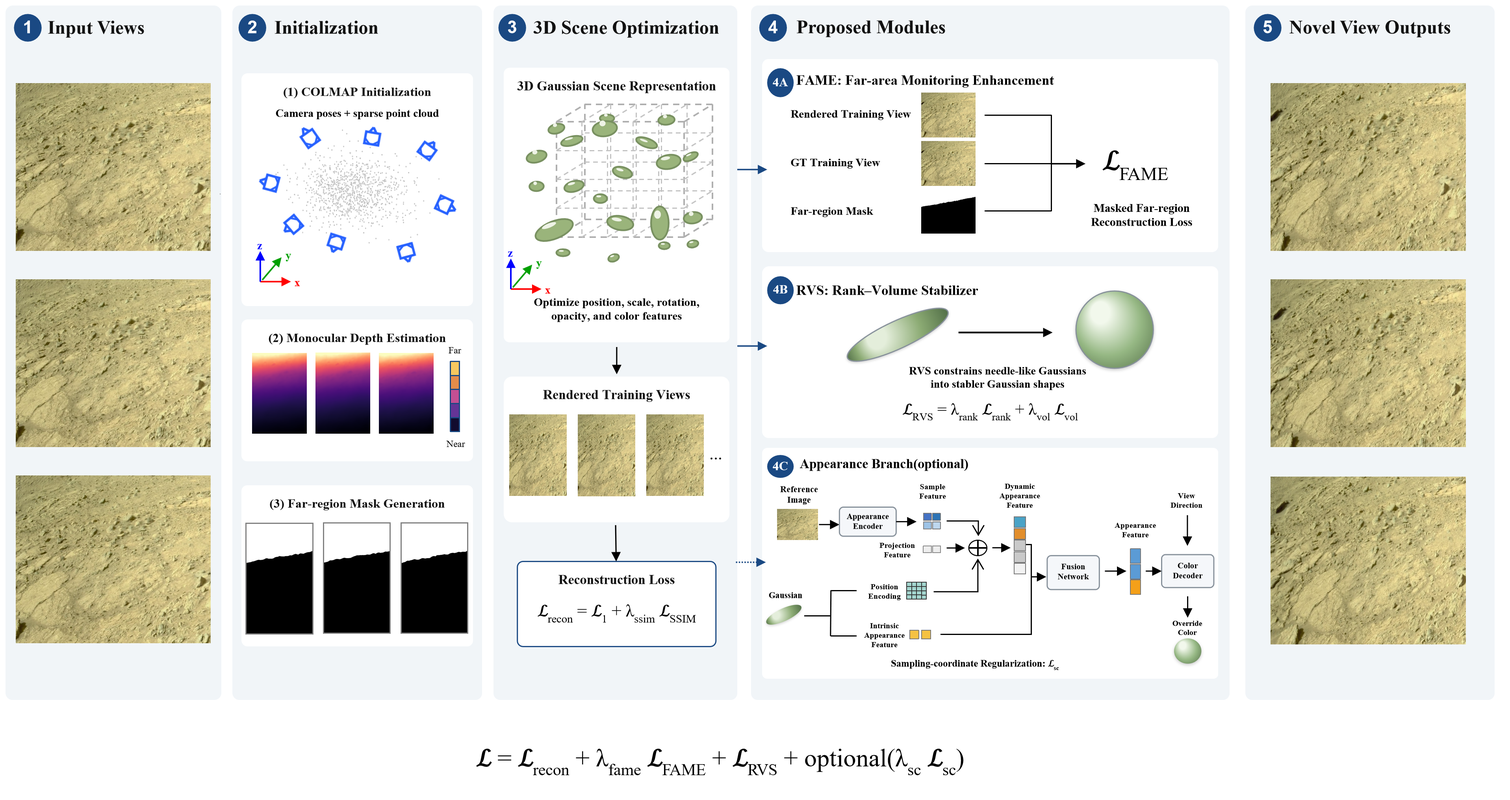
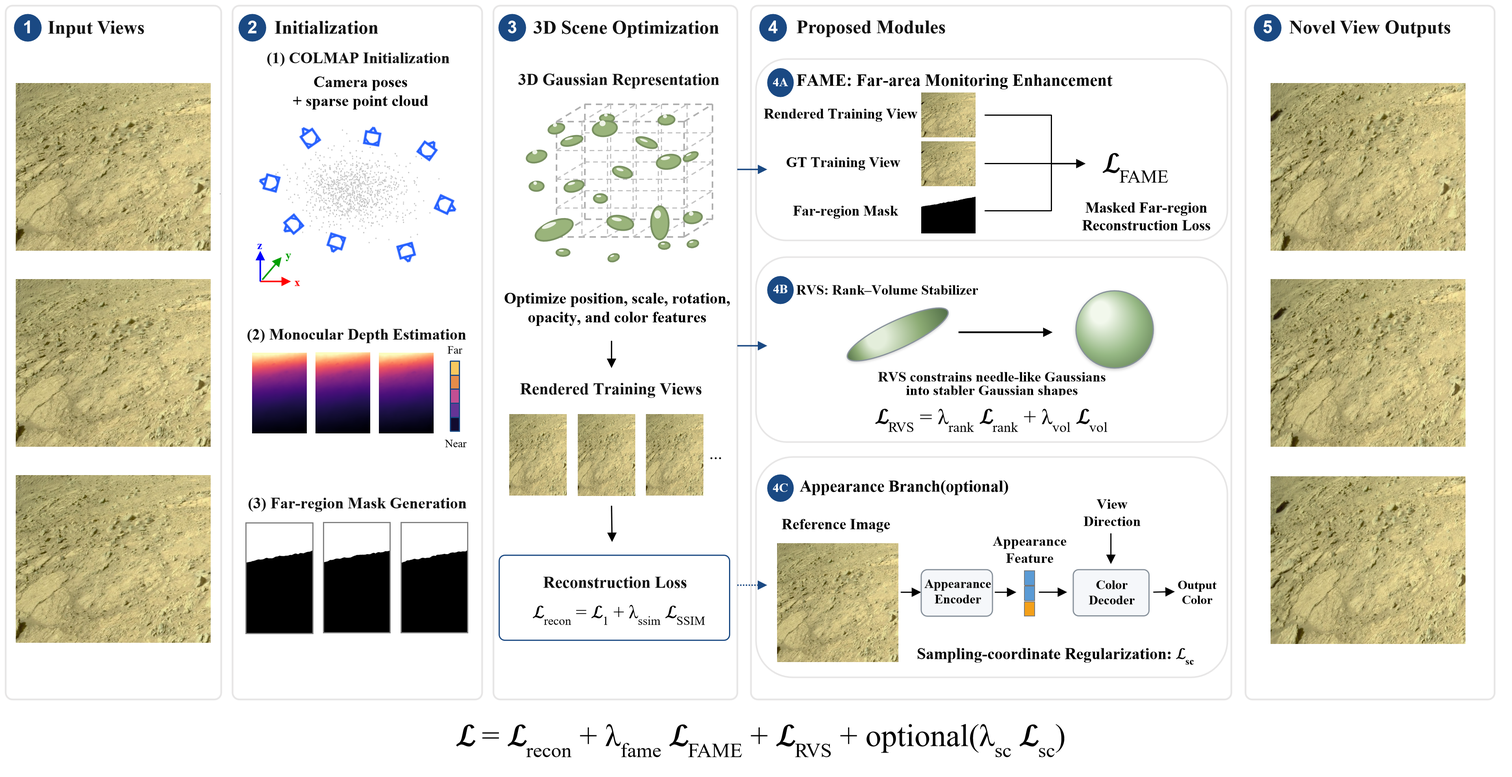
34章合并前

diff --git a/content/thesis/undergraduate/chapter2.tex b/content/thesis/undergraduate/chapter2.tex
@@ -3,12 +3,12 @@
 \chapter{相关理论与关键技术基础}
 \chaptermark{相关理论与关键技术基础}
 \section{三维重建与新视角合成基础}
-三维重建的目标是根据二维图像恢复场景中的几何结构、相机位置和外观信息。对于静态深空地表场景，如果能够从不同位置采集多张图像，则不同图像之间存在由相机投影关系决定的几何约束。通过建立图像像素、相机参数和三维点之间的对应关系，可以估计相机运动并恢复地表结构。三维重建结果可以表现为点云、网格、体素、隐式场或显式高斯等多种形式。
+三维重建的目标是根据二维图像恢复场景中的几何结构、相机位置和外观信息。对于静态深空场景，如果能够从不同位置采集多张图像，则不同图像之间存在由相机投影关系决定的几何约束。通过建立图像像素、相机参数和三维点之间的对应关系，可以估计相机运动并恢复场景结构。三维重建结果可以表现为点云、网格、体素、隐式场或显式高斯等多种形式。
 
 在针孔相机模型中，三维点到二维图像平面的投影关系可表示为：
 
 \begin{equation}
-    s\begin{bmatrix}u\\v\\1\end{bmatrix}=K\begin{bmatrix}R\,|\,t\end{bmatrix}\begin{bmatrix}X\\Y\\Z\\1\end{bmatrix}
+    s\left[\begin{smallmatrix}u\\v\\1\end{smallmatrix}\right]=K\left[\,R\mid t\,\right]\left[\begin{smallmatrix}X\\Y\\Z\\1\end{smallmatrix}\right]
 \end{equation}
 其中，$K$为相机内参矩阵，$R$和$t$分别表示相机旋转和平移，$(X,Y,Z)$为三维点坐标，$(u,v)$为其在图像中的投影坐标。
 
@@ -91,15 +91,23 @@ Bundle Adjustment通过联合优化相机参数和三维点坐标，使整体重
 \end{equation}
 其中，$\hat I$表示渲染图像，$I$表示真实图像，$\lambda_{\mathrm{ssim}}$为结构相似性损失权重。$\mathcal{L}_1$损失关注像素级颜色误差，SSIM损失关注局部结构相似性，二者结合能够同时约束颜色重建和图像结构保持。
 
-3DGS的优势在于显式表示直观、训练速度较快、渲染效率较高，并能够通过可微splatting实现高质量实时新视角合成。然而，3DGS的重建效果也容易受到相机位姿、初始点云质量、视角覆盖范围和图像监督分布的影响。当输入视角不足、远区域纹理较弱或不同视角之间外观差异较大时，仅依赖基础图像重建损失可能无法充分约束三维高斯的空间分布，容易出现局部结构不稳定、远区域细节弱化、漂浮伪影或颜色不一致等问题。因此，在复杂深空地表场景中，有必要在基础3DGS框架上进一步引入远区域增强、几何形态约束和外观一致性建模等改进策略。
+3DGS的优势在于显式表示直观、训练速度较快、渲染效率较高，并能够通过可微splatting实现高质量实时新视角合成。然而，3DGS的重建效果也容易受到相机位姿、初始点云质量、视角覆盖范围和图像监督分布的影响。当输入视角不足、远区域纹理较弱或不同视角之间外观差异较大时，仅依赖基础图像重建损失可能无法充分约束三维高斯的空间分布，容易出现局部结构不稳定、远区域细节弱化、漂浮伪影或颜色不一致等问题。因此，在复杂深空场景中，有必要在基础3DGS框架上进一步引入远区域增强、几何形态约束和外观一致性建模等改进策略。
 
 \begin{figure}[H]
     \centering
     \includegraphics[width=0.92\textwidth]{3dgs_pipeline.png}
     \caption{3D Gaussian Splatting基本流程示意图}\label{fig:2-1}
 \end{figure}
-\section{单目深度估计辅助工具}
-单目深度估计是根据单张RGB图像预测场景深度分布的技术。本文使用Metric3Dv2-Large作为辅助工具，用于提供相对稳定的深度参考\upcite{ref30}。本文不将单目深度估计模型作为核心研究对象，也不展开其网络结构细节。其作用主要是辅助筛选图像中的远区域，为FAME模块构造远区域mask。本文不将单目深度估计结果作为三维几何真值，也不以深度误差作为主要评价指标，而是将其作为远区域划分的辅助依据。
+\section{深空场景数据集介绍}
+深空场景数据集通常来源于真实探测任务影像、人工标注图像集合以及基于三维重建或仿真生成的多视角数据。与常规室内或物体级数据集相比，这类数据往往具有更大的成像距离跨度、更弱的纹理信息、更复杂的光照变化以及更稀疏的视角覆盖。因此，深空场景数据集不仅需要提供图像本身，还常常需要配套相机参数、时间序列关系、语义标注或三维几何信息，才能支撑三维重建、新视角合成、导航感知和任务仿真等研究。
+
+NASA Planetary Data System(PDS)是深空场景研究中最重要的真实数据来源之一。PDS长期归档NASA行星探测任务返回的科学与工程数据，涵盖多类任务影像和相关元数据\upcite{ref33}。这类数据真实性强、覆盖任务广，能够反映实际探测任务中的成像噪声、曝光变化、尺度差异和观测约束。但PDS本身更偏向任务数据归档，通常不会直接按照三维重建或新视角合成任务组织训练集、测试集和统一相机轨迹，因此在用于视觉建模前往往需要额外完成数据筛选、图像预处理、相机参数整理和视角序列构建。
+
+M3arsSynth是近年来面向火星场景可控视频生成和三维一致性建模构建的数据集。该数据集以PDS中的真实火星导航图像为基础，通过三维重建和渲染流程生成多视角视频序列，并提供相机轨迹及相关多模态信息\upcite{ref10}。与仅包含单张图像或语义标签的数据集相比，M3arsSynth更适合用于分析多视角几何约束、连续视角渲染和新视角合成效果。本文实验选用该数据集中的视频场景，主要原因在于其同时包含真实任务图像来源和可用于渲染评估的多视角序列，能够较好支撑深空场景三维重建与新视角合成研究。
+
+AI4Mars则代表了另一类深空视觉数据集，即面向火星巡视图像理解的语义标注数据集。该数据集由Curiosity、Opportunity和Spirit等火星车图像构成，包含大规模像素级标注，可用于训练和验证火星场景中的环境类别识别模型\upcite{ref34}。这类数据集的优势在于提供了丰富的语义监督，有助于研究障碍物识别、可通行区域分析和任务辅助感知；但其主要目标不是三维重建或新视角合成，通常不提供连续多视角相机轨迹和可直接用于渲染评价的测试视角。因此，AI4Mars更适合作为深空场景理解和语义先验研究的数据基础，而非本文实验的主要重建数据源。
+
+总体来看，PDS提供真实任务数据基础，M3arsSynth进一步面向多视角视频与三维一致性建模组织数据，AI4Mars则侧重语义理解和任务辅助感知。不同数据集在数据组织方式、标注类型和适用任务上各有侧重。本文关注的是深空场景的三维重建与新视角合成，因此更需要具备多视角序列和相机轨迹的数据形式；这也是本文选择M3arsSynth作为主要实验数据来源的原因。
 
 \section{图像质量评价指标}
 新视角合成质量通常通过渲染图像与真实图像之间的差异进行评价。本文采用PSNR、SSIM和LPIPS作为主要评价指标，从像素误差、结构相似性和感知质量三个角度衡量不同方法的新视角合成效果。
@@ -125,7 +133,7 @@ LPIPS基于深度特征空间中的距离衡量感知差异\upcite{ref29}：
 \end{equation}
 其中，$\hat x_{hw}^l$和$\hat y_{hw}^l$表示图像在第$l$层深度特征空间中的归一化特征，$w_l$表示该层特征权重。LPIPS数值越低，说明两幅图像在感知特征上越接近。
 
-除整体图像质量评价外，本文还针对远区域单独统计PSNR、SSIM和LPIPS。远区域由辅助深度结果生成的mask确定，评价时仅在远区域像素范围内计算图像质量指标。该设置能够更直接地反映模型对远处地表纹理、目标边缘和背景层次的恢复能力，避免整体图像指标掩盖远区域细节变化。
+除整体图像质量评价外，本文还针对远区域单独统计PSNR、SSIM和LPIPS。远区域由辅助深度结果生成的\textnormal{mask}确定，评价时仅在远区域像素范围内计算图像质量指标。该设置能够更直接地反映模型对远处场景纹理、目标边缘和背景层次的恢复能力，避免整体图像指标掩盖远区域细节变化。
 
 \section{本章小结}
-本章介绍了三维重建与新视角合成的基本概念，说明了SfM与COLMAP在相机位姿估计和初始点云生成中的作用，重点分析了3D Gaussian Splatting的场景表示、渲染和优化流程。同时，本章简要说明了单目深度估计辅助工具在本文中的作用，并介绍了后续实验采用的PSNR、SSIM和LPIPS等图像质量评价指标。
+本章介绍了三维重建与新视角合成的基本概念，说明了SfM与COLMAP在相机位姿估计和初始点云生成中的作用，重点分析了3D Gaussian Splatting的场景表示、渲染和优化流程。同时，本章概述了PDS、M3arsSynth和AI4Mars等深空场景相关数据集与数据源，并介绍了后续实验采用的PSNR、SSIM和LPIPS等图像质量评价指标。

diff --git a/content/thesis/undergraduate/abstract.tex b/content/thesis/undergraduate/abstract.tex
@@ -2,22 +2,22 @@
 
 % 中文摘要
 \begin{abstract}
-深空地表场景通常存在观测视角有限、成像距离较远、纹理信息不足、地形结构复杂和光照不稳定等问题。这些因素会削弱图像中用于三维恢复和视角推断的有效信息，使场景几何结构、尺度关系和外观变化难以充分表达。传统多视图几何方法依赖稳定的特征匹配和充足的视角约束，在低纹理、强阴影和视角覆盖不足条件下容易出现重建不完整、结构表达不稳定等问题，进而影响新视角合成质量。因此，如何在有限且非理想的图像观测条件下构建稳定可靠的三维场景表示，并实现质量稳定的新视角合成，是深空地表环境感知与可视化中的关键问题。
+深空场景通常存在观测视角有限、成像距离较远、纹理信息不足、空间结构复杂和光照不稳定等问题。这些因素会削弱图像中用于三维恢复和视角推断的有效信息，使场景几何结构、尺度关系和外观变化难以充分表达。传统多视图几何方法依赖稳定的特征匹配和充足的视角约束，在低纹理、强阴影和视角覆盖不足条件下容易出现重建不完整、结构表达不稳定等问题，进而影响新视角合成质量。因此，如何在有限且非理想的图像观测条件下构建稳定可靠的三维场景表示，并实现质量稳定的新视角合成，是深空环境感知与可视化中的关键问题。
 
-本文提出了一种Deep-Space Surface Gaussian Splatting(DSS-GS)方法，用于深空地表场景的三维重建与新视角合成。该方法以3D Gaussian Splatting为基础，利用多视角图像和相机参数构建显式三维高斯场景表示，并通过可微分渲染完成场景优化与新视角渲染。针对远区域纹理弱、地形尺度变化大以及跨视角光照和外观不一致等问题，DSS-GS 设计了 FAME 远区域增强模块，引入了有效秩与体积正则约束，并结合参考引导的外观建模思路，以提升模型在非理想观测条件下的适应能力。
+本文提出了一种Deep-Space Scene Gaussian Splatting(DSS-GS)方法，用于深空场景的三维重建与新视角合成。该方法以3D Gaussian Splatting为基础，利用多视角图像和相机参数构建显式三维高斯场景表示，并通过可微分渲染完成场景优化与新视角渲染。针对远区域纹理弱、场景尺度变化大以及跨视角光照和外观不一致等问题，DSS-GS 设计了 FAME 远区域增强模块，引入了有效秩与体积正则约束，并结合参考引导的外观建模思路，以提升模型在非理想观测条件下的适应能力。
     
-本文实现了数据处理、训练、渲染与评估等模块，并在M3arsSynth数据集的火星地表场景上进行实验验证。结果表明，相比原始3DGS，DSS-GS将SSIM从0.931提升至0.961，PSNR从36.17 dB提升至38.49 dB，LPIPS从0.131降低至0.078，有效提升了新视角合成质量，并展现出对深空地表场景复杂观测条件更强的适应能力。
+本文实现了数据处理、训练、渲染与评估等模块，并在M3arsSynth数据集的火星场景上进行实验验证。结果表明，相比原始3DGS，DSS-GS将SSIM从0.931提升至0.961，PSNR从36.17 dB提升至38.49 dB，LPIPS从0.131降低至0.078，有效提升了新视角合成质量，并展现出对深空场景复杂观测条件更强的适应能力。
 
-    \keywordslist{三维重建, 新视角合成, 3D Gaussian Splatting, 深空地表场景}
+    \keywordslist{三维重建, 新视角合成, 3D Gaussian Splatting, 深空场景}
 \end{abstract}
 
 % 英文摘要
 \begin{engabstract}
-Deep-space surface scenes are commonly characterized by limited view coverage, long-range imaging, insufficient texture, complex terrain structures, and unstable illumination. These factors weaken the visual cues available for 3D reconstruction and view inference, making it difficult to sufficiently represent scene geometry, scale relationships, and appearance variations. Conventional multi-view geometry methods rely on reliable feature matching and sufficient view constraints; under textureless regions, strong shadows, and insufficient view coverage, they are prone to incomplete reconstruction and unstable structural representation, which further degrades the quality of Novel View Synthesis (NVS). Therefore, constructing a stable and reliable 3D scene representation from limited and non-ideal image observations and achieving quality-stable NVS remain key problems in deep-space surface perception and visualization.
+Deep-space scenes are commonly characterized by limited view coverage, long-range imaging, insufficient texture, complex spatial structures, and unstable illumination. These factors weaken the visual cues available for 3D reconstruction and view inference, making it difficult to sufficiently represent scene geometry, scale relationships, and appearance variations. Conventional multi-view geometry methods rely on reliable feature matching and sufficient view constraints; under textureless regions, strong shadows, and insufficient view coverage, they are prone to incomplete reconstruction and unstable structural representation, which further degrades the quality of Novel View Synthesis (NVS). Therefore, constructing a stable and reliable 3D scene representation from limited and non-ideal image observations and achieving quality-stable NVS remain key problems in deep-space scene perception and visualization.
 
-This paper presents Deep-Space Surface Gaussian Splatting(DSS-GS)for 3D reconstruction and NVS of deep-space surface scenes. Built upon 3D Gaussian Splatting (3DGS), DSS-GS takes multi-view images and camera parameters as input, constructs an explicit 3D Gaussian scene representation, and performs scene optimization and novel-view rendering through differentiable rendering. To address weak textures in distant regions, large terrain-scale variations, and cross-view illumination and appearance inconsistencies, DSS-GS introduces a Far-region Adaptive Mask Enhancement (FAME) module, incorporates effective-rank and volume regularization, and further integrates a reference-guided appearance modeling strategy to improve adaptability under non-ideal observation conditions.
+This paper presents Deep-Space Scene Gaussian Splatting(DSS-GS) for 3D reconstruction and NVS of deep-space scenes. Built upon 3D Gaussian Splatting (3DGS), DSS-GS takes multi-view images and camera parameters as input, constructs an explicit 3D Gaussian scene representation, and performs scene optimization and novel-view rendering through differentiable rendering. To address weak textures in distant regions, large scene-scale variations, and cross-view illumination and appearance inconsistencies, DSS-GS introduces a Far-region Adaptive Mask Enhancement (FAME) module, incorporates effective-rank and volume regularization, and further integrates a reference-guided appearance modeling strategy to improve adaptability under non-ideal observation conditions.
     
-The proposed system implements data processing, training, rendering, and evaluation modules, and is validated on Martian surface scenes from the M3arsSynth dataset. Experimental results show that, compared with vanilla 3DGS, DSS-GS improves SSIM from 0.931 to 0.961 and PSNR from 36.17 dB to 38.49 dB, while reducing LPIPS from 0.131 to 0.078. These results demonstrate that DSS-GS effectively improves the quality of NVS and exhibits stronger adaptability to the complex observation conditions of deep-space surface scenes.
+The proposed system implements data processing, training, rendering, and evaluation modules, and is validated on Martian scenes from the M3arsSynth dataset. Experimental results show that, compared with vanilla 3DGS, DSS-GS improves SSIM from 0.931 to 0.961 and PSNR from 36.17 dB to 38.49 dB, while reducing LPIPS from 0.131 to 0.078. These results demonstrate that DSS-GS effectively improves the quality of NVS and exhibits stronger adaptability to the complex observation conditions of deep-space scenes.
 
-    \engkeywordslist{3D reconstruction, novel view synthesis, 3D Gaussian Splatting, deep-space surface scene}
+    \engkeywordslist{3D reconstruction, novel view synthesis, 3D Gaussian Splatting, deep-space scene}
 \end{engabstract}

diff --git a/content/thesis/undergraduate/chapter6.tex b/content/thesis/undergraduate/chapter6.tex
@@ -3,13 +3,13 @@
 \chapter{总结与展望}
 \chaptermark{总结与展望}
 \section{研究工作总结}
-本文围绕深空地表场景的三维重建与新视角合成任务，设计并实现了一套基于3D Gaussian Splatting的实验系统。系统完成了从多视角图像输入、相机位姿读取、三维高斯训练、新视角渲染到综合指标评估的完整流程，能够支持多场景批量实验和结果汇总。
+本文围绕深空场景的三维重建与新视角合成任务，设计并实现了一套基于3D Gaussian Splatting的实验系统。系统完成了从多视角图像输入、相机位姿读取、三维高斯训练、新视角渲染到综合指标评估的完整流程，能够支持多场景批量实验和结果汇总。
 
-针对深空地表场景远区域细节弱、优化过程容易偏向近处区域的问题，本文设计了FAME远区域增强模块。该模块通过远区域mask对远处像素的重建误差进行额外约束，使模型在训练过程中更加关注远处地表和目标结构。针对三维高斯尺度退化和几何不稳定问题，本文引入有效秩正则和体积正则，对高斯形态和体积分布进行约束，提升高斯形态的稳定性。
+针对深空场景远区域细节弱、优化过程容易偏向近处区域的问题，本文设计了FAME远区域增强模块。该模块通过远区域\textnormal{mask}对远处像素的重建误差进行额外约束，使模型在训练过程中更加关注远处区域和目标结构。针对三维高斯尺度退化和几何不稳定问题，本文引入有效秩正则和体积正则，对高斯形态和体积分布进行约束，提升高斯形态的稳定性。
 
 此外，本文还设计了光照扰动和外观建模流程，用于分析复杂光照条件下的新视角合成效果。实验设计从图像质量、远区域质量、光照扰动实验和消融实验等多个角度展开，为系统性能分析提供了较完整的评价依据。
 
 \section{研究前景展望}
-本文方法仍存在一些不足。首先，远区域划分依赖辅助深度结果，当单目深度估计在低纹理、强反光、遮挡或阴影区域出现误差时，远区域mask的准确性会受到影响，进而限制FAME模块的监督效果。其次，本文引入的有效秩和体积正则主要用于约束高斯基元的尺度分布和形态变化，能够在一定程度上缓解针状高斯、异常膨胀和局部尺度突变等问题，但并不能完全替代真实深度监督或显式多视图几何约束。再次，复杂光照条件下的外观变化仍然难以完全建模，尤其在曝光差异较大、阴影边界明显或局部亮度变化剧烈时，渲染结果仍可能出现颜色偏差和局部细节不稳定。
+本文方法仍存在一些不足。首先，远区域划分依赖辅助深度结果，当单目深度估计在低纹理、强反光、遮挡或阴影区域出现误差时，远区域\textnormal{mask}的准确性会受到影响，进而限制FAME模块的监督效果。其次，本文引入的有效秩和体积正则主要用于约束高斯基元的尺度分布和形态变化，能够在一定程度上缓解针状高斯、异常膨胀和局部尺度突变等问题，但并不能完全替代真实深度监督或显式多视图几何约束。再次，复杂光照条件下的外观变化仍然难以完全建模，尤其在曝光差异较大、阴影边界明显或局部亮度变化剧烈时，渲染结果仍可能出现颜色偏差和局部细节不稳定。
 
 未来工作可以从以下几个方面继续完善。第一，可以进一步提升远区域划分的可靠性，避免仅依赖单目深度结果带来的局部误差。后续可结合图像纹理强度、相机视角分布、稀疏点云密度和多视图重投影关系，对远区域进行更加稳定的综合判断。第二，可以引入更直接的几何一致性约束，例如跨视角深度一致性、局部表面平滑约束或法向一致性约束，使高斯基元的形态稳定性能够更好地服务于真实空间结构表达。第三，可以进一步改进复杂光照条件下的外观建模方法，将亮度变化、阴影分布和材质反射特性进行更细致的区分，从而提高模型在非均匀光照和跨视角外观变化场景中的新视角合成稳定性。

diff --git a/content/thesis/undergraduate/acknowledgements.tex b/content/thesis/undergraduate/acknowledgements.tex
@@ -3,7 +3,7 @@
 \begin{acknowledgements}
 在论文即将完成之际，回顾本次毕业设计从选题确定、系统实现、实验分析到论文撰写的全过程，我深切感受到本课题的顺利完成离不开老师和同学们在学习、科研与实践过程中给予的指导、帮助和支持。正是在他们的关心与鼓励下，我才能够在遇到困难时不断调整思路、完善方案，并最终完成本次毕业设计。在此，我谨向所有关心和帮助过我的老师和同学表示诚挚的感谢。
 
-首先，衷心感谢我的指导教师。在课题开展初期，老师帮助我明确研究方向，使我能够围绕深空地表场景的三维重建与新视角合成展开系统设计；在方法实现和实验分析过程中，老师多次指出方案中存在的问题，并从研究思路、论文结构、实验设计和结果表达等方面给予了细致指导。老师严谨的治学态度和认真负责的工作作风，使我在完成毕业设计的同时，也更加理解了科研工作中逻辑严密、论证充分和实事求是的重要性。
+首先，衷心感谢我的指导教师。在课题开展初期，老师帮助我明确研究方向，使我能够围绕深空场景的三维重建与新视角合成展开系统设计；在方法实现和实验分析过程中，老师多次指出方案中存在的问题，并从研究思路、论文结构、实验设计和结果表达等方面给予了细致指导。老师严谨的治学态度和认真负责的工作作风，使我在完成毕业设计的同时，也更加理解了科研工作中逻辑严密、论证充分和实事求是的重要性。
 
 同时，诚挚感谢学院的各位老师。在大学的学习时光里，老师们凭借丰富的教学经验和扎实的专业知识，认真讲授每一门课程，耐心解答学习过程中遇到的问题，使我逐步建立起较为系统的专业知识体系。从基础理论的学习到专业能力的培养，老师们的悉心教导为我后续开展毕业设计和论文写作奠定了坚实基础。课堂上的讲解、课后的指导以及严谨负责的教学态度，都让我受益匪浅。
 

diff --git a/content/thesis/undergraduate/info.tex b/content/thesis/undergraduate/info.tex
@@ -3,8 +3,8 @@
 % 旧论文未提供学院信息。
 % TODO: 请人工确认该部分归属：请补充 school = {...}。
 \nwputhesissetup{
-    title = {深空地表场景的三维重建与新视角合成},
-    title-line-a = {深空地表场景的三维},
+    title = {深空场景的三维重建与新视角合成},
+    title-line-a = {深空场景的三维},
     title-line-b = {重建与新视角合成},
     author = {王崇宇},
     year = {2026},

diff --git a/content/thesis/undergraduate/chapters.tex b/content/thesis/undergraduate/chapters.tex
@@ -1,4 +1,4 @@
-\nocite{ref1,ref2,ref3,ref4,ref31,ref32,ref5,ref6,ref7,ref8,ref9,ref10,ref11,ref12,ref13,ref14,ref15,ref16,ref17,ref18,ref19,ref20,ref21,ref22,ref23,ref24,ref25,ref26,ref27,ref28,ref29,ref30}
+\nocite{ref1,ref2,ref3,ref4,ref31,ref32,ref5,ref6,ref7,ref8,ref9,ref10,ref14,ref17,ref18,ref19,ref20,ref24,ref25,ref26,ref27,ref28,ref29,ref30,ref33,ref34}
 
 \input{content/thesis/undergraduate/chapter1}
 \input{content/thesis/undergraduate/chapter2}
